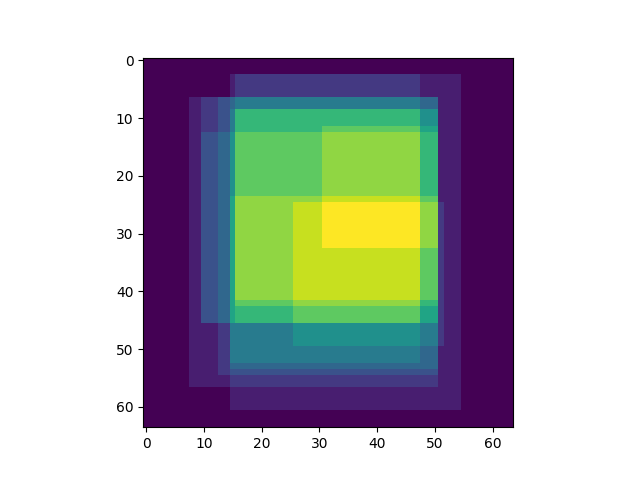
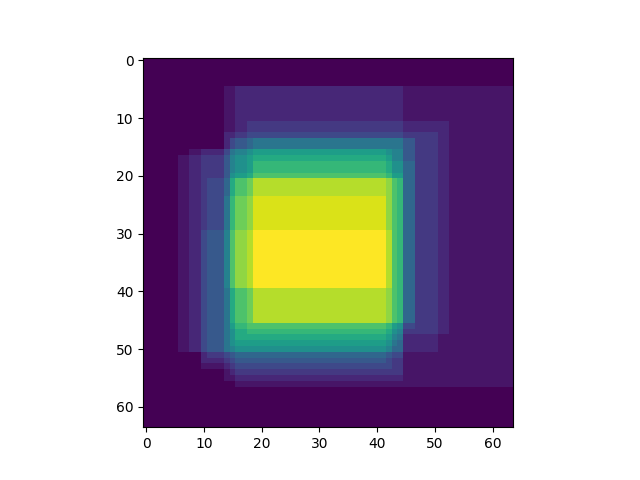
sync

Changed region(s): [[0.2812, 0.1562, 0.7188, 0.875]]

diff --git a/scripts/filtering/filterannotations.py b/scripts/filtering/filterannotations.py
@@ -1,6 +1,7 @@
 import numpy as np
 import json
 import matplotlib.pyplot as plt
+import math
 
 dict_annotations = {}
 for i in range(20000):
@@ -35,30 +36,41 @@ for key, value in dict_annotations.items():
     anno[key] = value
 anno_index = np.argsort(anno)
 
-for i in range(19):
-    index_value = anno_index[:1000*i+1000]
-    
-    for spilt in ['train', 'val', 'test']:
-        mode = '1_category_1_class_npy'
-        name = spilt + '_for_' + mode
+x_data = []
+y_data = []
+print(math.sqrt(anno[anno_index[-1]]))
+for i in range(999,20000,1000):
+    print(i)
+    print(math.sqrt(anno[anno_index[i]]))
+    x_data.append(i)
+    y_data.append(math.sqrt(anno[anno_index[i]]))
+plt.plot(x_data, y_data)
+plt.savefig('plot.png')
 
-        base_path = '/nfs/data/yuanhaoban/ODFN/version_2/'
-        path = base_path + spilt + '/annotations/' + name + '.json'
-        with open(path, 'r') as f:
-            data = json.load(f)
+# for i in range(19):
+#     index_value = anno_index[:1000*i+1000]
+    
+#     for spilt in ['train', 'val', 'test']:
+#         mode = '1_category_1_class_npy'
+#         name = spilt + '_for_' + mode
+
+#         base_path = '/nfs/data/yuanhaoban/ODFN/version_2/'
+#         path = base_path + spilt + '/annotations/' + name + '.json'
+#         with open(path, 'r') as f:
+#             data = json.load(f)
         
-        data_ = {}
-        data_['categories'] = data['categories']
-        data_['annotations'] = []
-        data_['images'] = data['images']
+#         data_ = {}
+#         data_['categories'] = data['categories']
+#         data_['annotations'] = []
+#         data_['images'] = data['images']
                 
-        print(len(data_['images']))
+#         print(len(data_['images']))
         
-        for ann in data['annotations']:
-            if ann['image_id'] in index_value:
-                data_['annotations'].append(ann)
+#         for ann in data['annotations']:
+#             if ann['image_id'] in index_value:
+#                 data_['annotations'].append(ann)
         
-        print(len(data_['annotations']))
+#         print(len(data_['annotations']))
         
-        with open(base_path + spilt + '/annotations/' + name + '_' + str(1000*i+1000) + '.json', 'w') as f:
-            json.dump(data_, f)
+#         with open(base_path + spilt + '/annotations/' + name + '_' + str(1000*i+1000) + '.json', 'w') as f:
+#             json.dump(data_, f)

diff --git a/scripts/why/heatmap.py b/scripts/why/heatmap.py
@@ -14,7 +14,7 @@ data = json.load(open(path, 'r'))
 images = data['images']
 annotations = data['annotations']
 
-image = images[10]
+image = images[9000]
 image_path = image['file_name']
 image_id = image['id']
 
@@ -35,17 +35,13 @@ print(base_path+image_path)
 img = np.load(base_path+image_path)
 
 # do normality test on each small 4*4 patch of img
-from scipy.stats import normaltest
 from scipy.stats import shapiro
 from scipy.stats import anderson
-from scipy.stats import kstest
-from scipy.stats import chisquare
 
 place_holder = np.zeros((64,64),dtype=np.float32)   
 for i in range(0,64,8):
     for j in range(0,64,8):
         print(i,j)
-        print(anderson(img[i:i+8,j:j+8].flatten()))
         place_holder[i:i+8,j:j+8] = shapiro(img[i:i+8,j:j+8].flatten()).pvalue
 
 place_holder = place_holder / np.max(place_holder)
